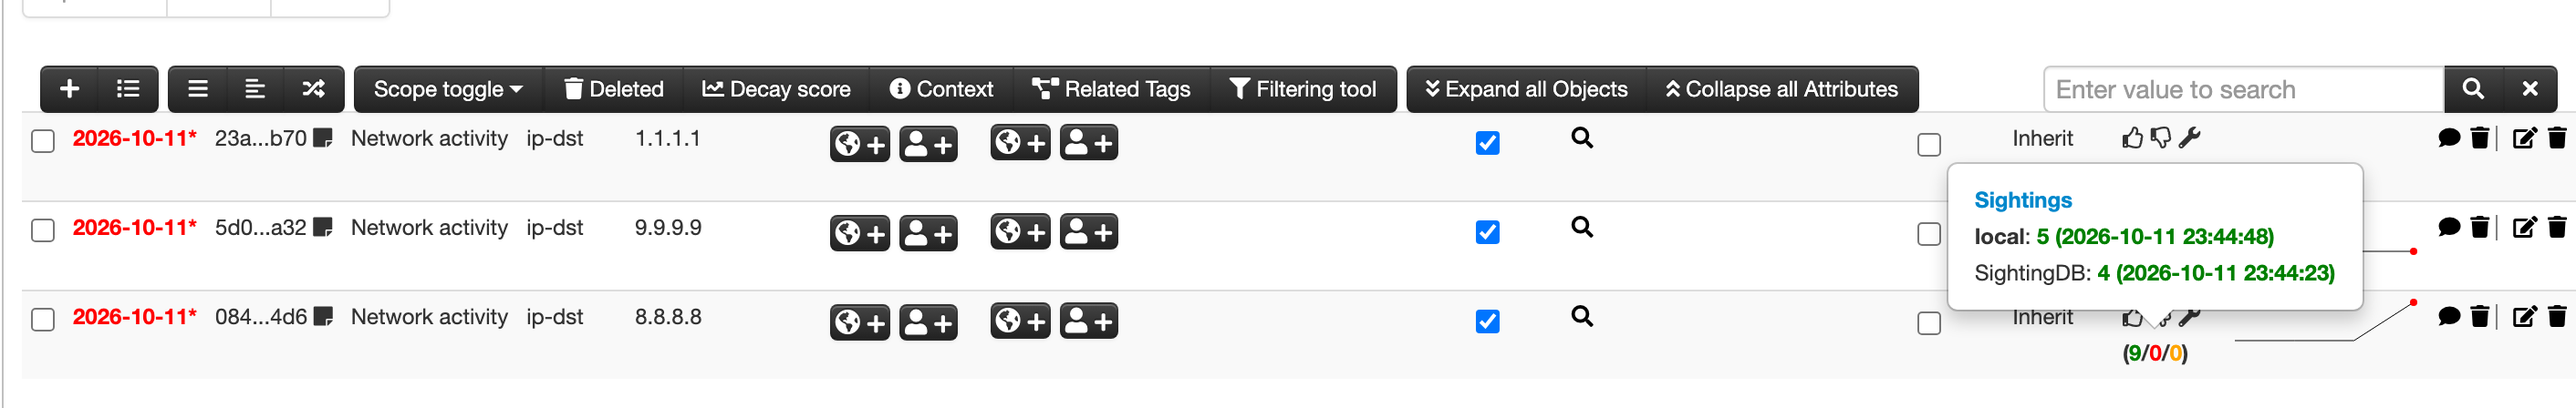
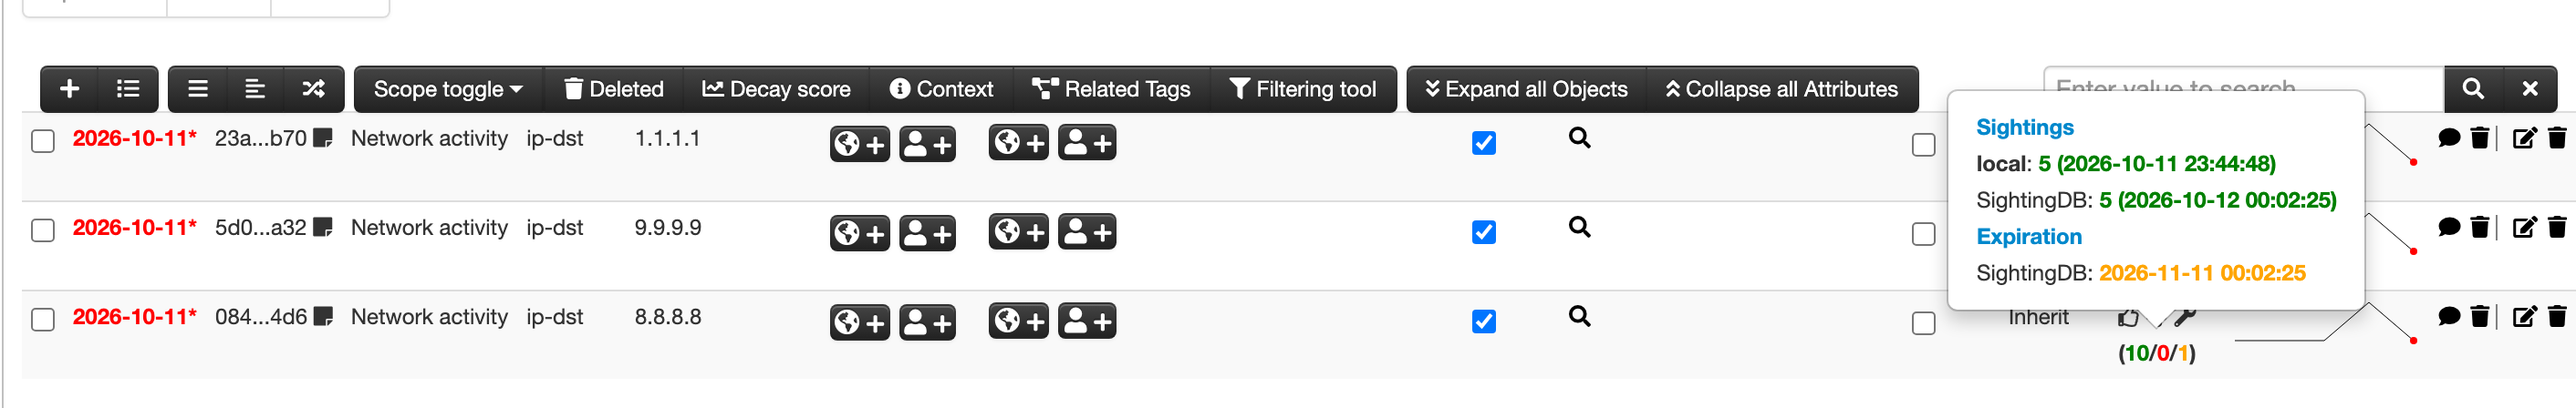
Document expiration

diff --git a/doc/the-sightingdb-book/chapters/11-stix-and-misp.md b/doc/the-sightingdb-book/chapters/11-stix-and-misp.md
@@ -302,9 +302,16 @@ Nothing changes on the page: the sightings cell of each attribute counts
 SightingDB's sightings and false-positives with MISP's own, and its popover
 names SightingDB as one more source:
 
-![Sightings: MISP's own, and SightingDB's.](images/misp-sightingdb-sightings.png){width=100%}
+![Sightings: MISP's own, and SightingDB's, with the date SightingDB will expire the value.](images/misp-sightingdb-sightings.png){width=100%}
 
 ![False-positives, the same way.](images/misp-sightingdb-false-positives.png){width=100%}
+
+**A TTL is shown as an expiration.** A value written with a `ttl` stops being
+valid that many seconds after its last sighting, which is what an expiration
+means in MISP. So when the value in the sightings namespace has one, MISP
+counts SightingDB among the expirations and shows the date, `last_seen` plus
+the TTL, beside any organisation's. A new sighting moves `last_seen`, and the
+date with it.
 
 The sightings graph — the wrench next to an attribute's thumbs, or the one on
 the event — adds SightingDB's hourly statistics (`stats_retention`, chapter 4)
@@ -342,8 +349,13 @@ added through MISP's API — is written to `misp/misp`, and the thumbs-down to
 `misp/false-positive/misp`, as the digest with the time it was recorded. It
 happens as the sighting is saved, with a five-second limit: a SightingDB that
 is down or slow never stops MISP saving the sighting, and the failure goes to
-MISP's error log. An expiration is a date, not something to count, and is not
-pushed.
+MISP's error log.
+
+**Expirations are not pushed.** In MISP an expiration is a judgement that an
+indicator is no longer valid; nothing is deleted. The nearest thing SightingDB
+has is a TTL, and an expired TTL is swept away — the value and its history
+gone, for every user of the namespace. Turning one into the other would make
+deciding an indicator is stale the same as erasing that it was ever seen.
 
 MISP does not read these back: MISP-to-MISP sharing of sightings is what MISP
 synchronisation is for. They are there for everything else that uses
